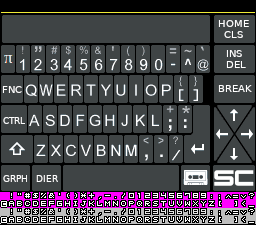
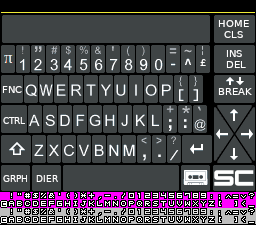
Added missing key for the SC-3000 keyboard layout

Changed region(s): [[0.0938, 0.4667, 0.8438, 0.7467], [0.8438, 0.3422, 1.0, 0.4356], [0.75, 0.2178, 0.8125, 0.3111]]

diff --git a/arm9/source/colecoDS.c b/arm9/source/colecoDS.c
@@ -2019,7 +2019,7 @@ u8 handle_sc3000_keyboard_press(u16 iTx, u16 iTy)  // SC-3000 Keyboard
     }
     else if ((iTy >= 42) && (iTy < 72))   // Row 2 (number row)
     {
-        if      ((iTx >= 0)   && (iTx < 15))   kbd_key = '\\'; // Repurpose to PII
+        if      ((iTx >= 0)   && (iTx < 15))   kbd_key = '`'; // Repurpose to PII
         else if ((iTx >= 15)  && (iTx < 31))   kbd_key = '1';
         else if ((iTx >= 31)  && (iTx < 45))   kbd_key = '2';
         else if ((iTx >= 45)  && (iTx < 61))   kbd_key = '3';
@@ -2032,7 +2032,7 @@ u8 handle_sc3000_keyboard_press(u16 iTx, u16 iTy)  // SC-3000 Keyboard
         else if ((iTx >= 151) && (iTx < 165))  kbd_key = '0';
         else if ((iTx >= 165) && (iTx < 181))  kbd_key = '-';
         else if ((iTx >= 181) && (iTx < 195))  kbd_key = '^';
-        else if ((iTx >= 195) && (iTx < 210))  kbd_key = '@';
+        else if ((iTx >= 195) && (iTx < 210))  kbd_key = '\\'; // British Pound 
         else if ((iTx >= 210) && (iTx < 255))  kbd_key = KBD_KEY_DEL;
     }
     else if ((iTy >= 72) && (iTy < 102))  // Row 3 (QWERTY row)
@@ -2066,22 +2066,22 @@ u8 handle_sc3000_keyboard_press(u16 iTx, u16 iTy)  // SC-3000 Keyboard
         else if ((iTx >= 147) && (iTx < 161))  kbd_key = 'L';
         else if ((iTx >= 161) && (iTx < 178))  kbd_key = ';';
         else if ((iTx >= 178) && (iTx < 192))  kbd_key = ':';
-        else if ((iTx >= 192) && (iTx < 214))  kbd_key = KBD_KEY_RET;
+        else if ((iTx >= 192) && (iTx < 208))  kbd_key = '@';
     }
     else if ((iTy >= 132) && (iTy < 162)) // Row 5 (ZXCV row)
     {
-        if      ((iTx >= 0)   && (iTx < 33))   {kbd_key = KBD_KEY_SHIFT; last_special_key = KBD_KEY_SHIFT; last_special_key_dampen = 20;}
-        else if ((iTx >= 33)  && (iTx < 49))   kbd_key = 'Z';
-        else if ((iTx >= 49)  && (iTx < 64))   kbd_key = 'X';
-        else if ((iTx >= 64)  && (iTx < 78))   kbd_key = 'C';
-        else if ((iTx >= 78)  && (iTx < 94))   kbd_key = 'V';
-        else if ((iTx >= 94)  && (iTx < 109))  kbd_key = 'B';
-        else if ((iTx >= 109) && (iTx < 123))  kbd_key = 'N';
-        else if ((iTx >= 123) && (iTx < 139))  kbd_key = 'M';
-        else if ((iTx >= 139) && (iTx < 154))  kbd_key = ',';
-        else if ((iTx >= 154) && (iTx < 169))  kbd_key = '.';
-        else if ((iTx >= 169) && (iTx < 184))  kbd_key = '/';
-        else if ((iTx >= 184) && (iTx < 214))  kbd_key = KBD_KEY_RET;
+        if      ((iTx >= 0)   && (iTx < 31))   {kbd_key = KBD_KEY_SHIFT; last_special_key = KBD_KEY_SHIFT; last_special_key_dampen = 20;}
+        else if ((iTx >= 31)  && (iTx < 47))   kbd_key = 'Z';
+        else if ((iTx >= 47)  && (iTx < 62))   kbd_key = 'X';
+        else if ((iTx >= 62)  && (iTx < 76))   kbd_key = 'C';
+        else if ((iTx >= 76)  && (iTx < 92))   kbd_key = 'V';
+        else if ((iTx >= 92)  && (iTx < 107))  kbd_key = 'B';
+        else if ((iTx >= 107) && (iTx < 121))  kbd_key = 'N';
+        else if ((iTx >= 121) && (iTx < 137))  kbd_key = 'M';
+        else if ((iTx >= 137) && (iTx < 152))  kbd_key = ',';
+        else if ((iTx >= 152) && (iTx < 167))  kbd_key = '.';
+        else if ((iTx >= 167) && (iTx < 181))  kbd_key = '/';
+        else if ((iTx >= 181) && (iTx < 214))  kbd_key = KBD_KEY_RET;
     }
     else if ((iTy >= 162) && (iTy < 192)) // Row 6 (SPACE BAR and icons row)
     {

diff --git a/arm9/source/sg1000.c b/arm9/source/sg1000.c
@@ -174,7 +174,7 @@ unsigned char cpu_readport_sg(register unsigned short Port)
           if (kbd_key == 'F')           joy1 |= 0x04;
           if (kbd_key == 'V')           joy1 |= 0x08;
           if (kbd_key == KBD_KEY_DEL)   joy1 |= 0x10;
-          if (kbd_key == '\\')          joy1 |= 0x20;   // PI
+          if (kbd_key == '`')           joy1 |= 0x20;   // PI
           if (kbd_key == ':')           joy1 |= 0x40;
           if (kbd_key == '@')           joy1 |= 0x80;
         }
@@ -292,7 +292,8 @@ unsigned char cpu_readport_sg(register unsigned short Port)
 
       if ((Port_PPI_C & 0x07) == 0x05)  // Row 5
       {
-          if (kbd_key == KBD_KEY_F1)      joy2 |= 0x08; // FUNC
+          if (kbd_key == '\\')            joy2 |= 0x01; // British Pound
+          if (kbd_key == KBD_KEY_CODE)    joy2 |= 0x08; // FUNC
           if (key_code)                   joy2 |= 0x08; // FUNC
       }
       
